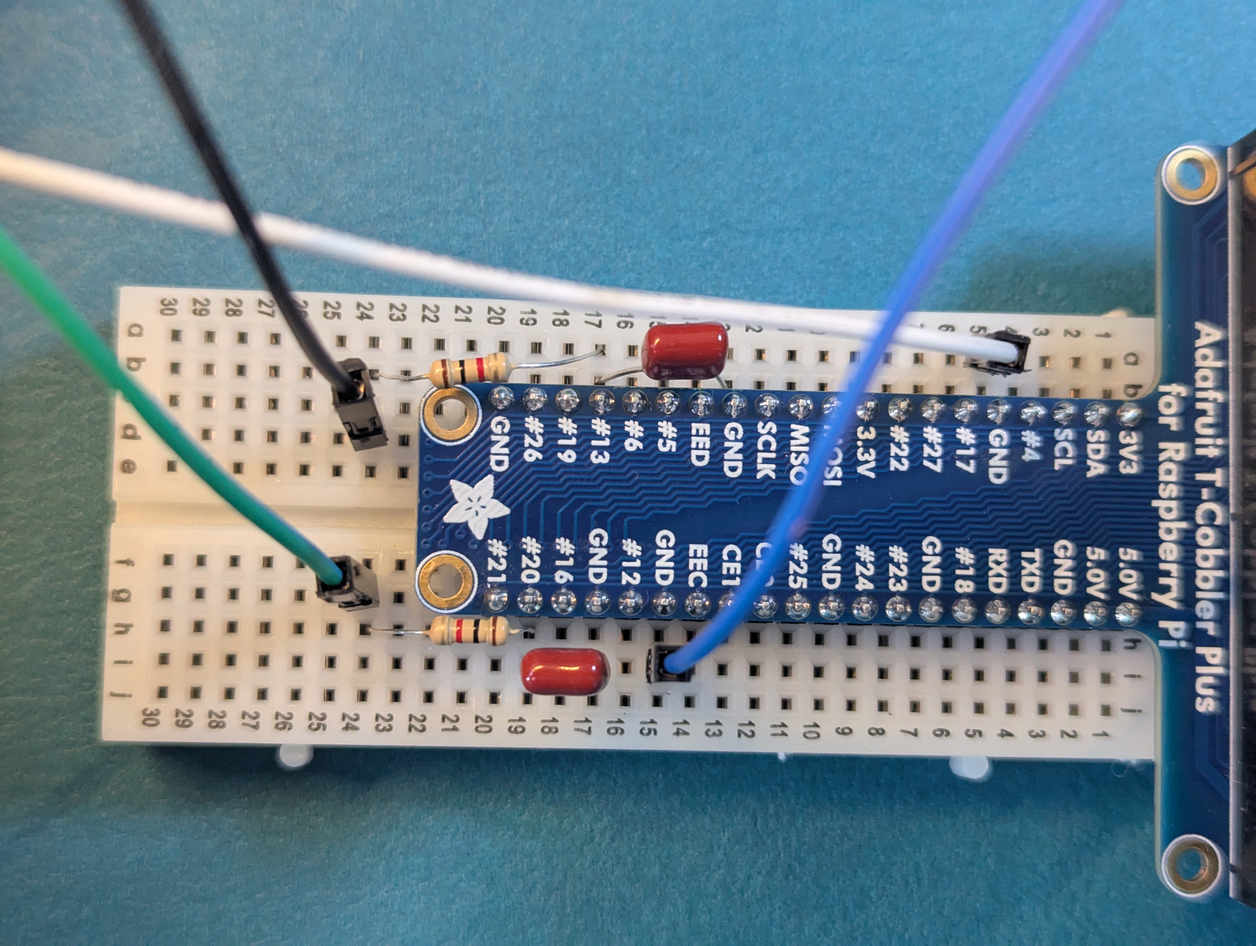
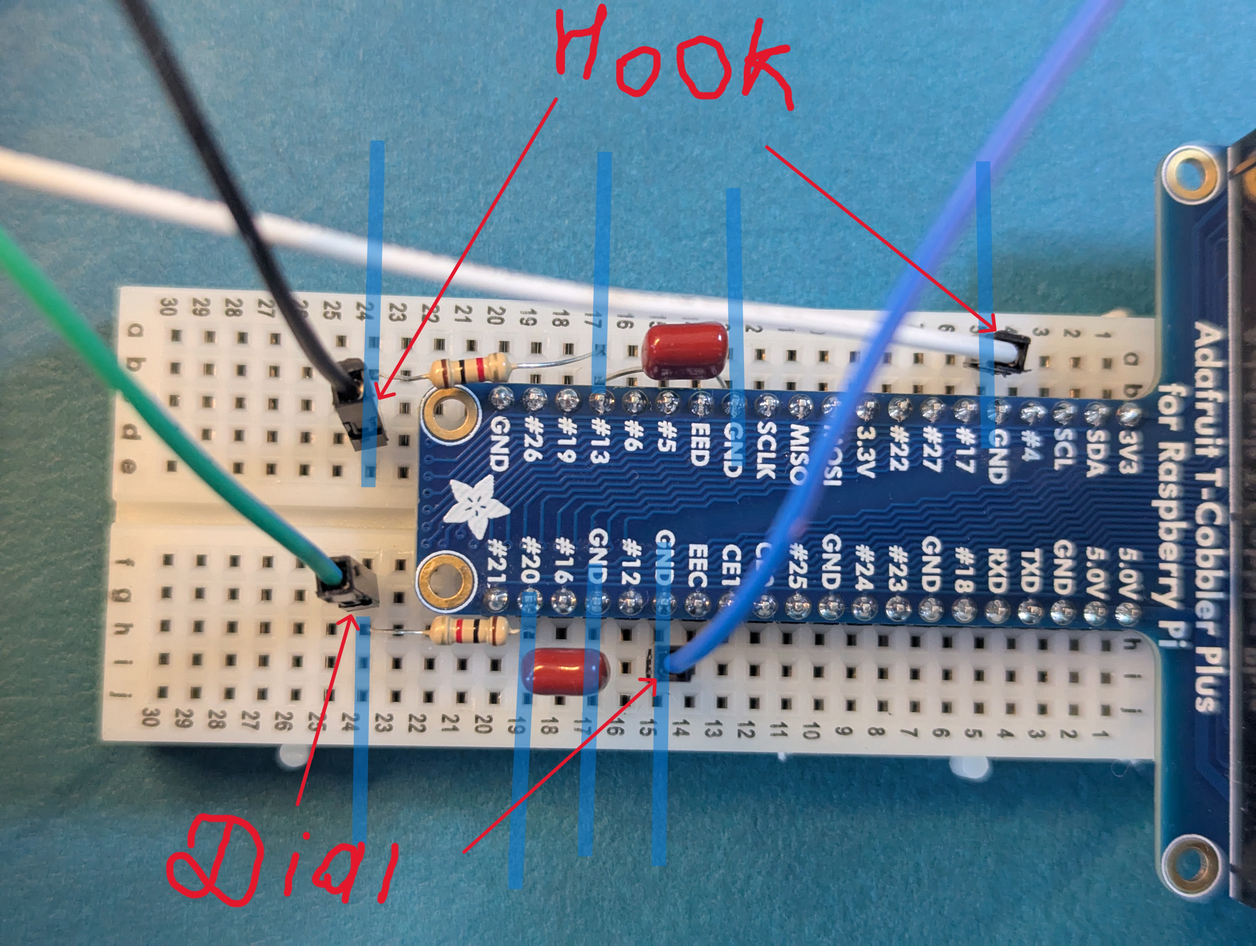
polish the docs and instructions

diff --git a/docs/Hardware.md b/docs/Hardware.md
@@ -61,24 +61,45 @@ Tools (what I actually used):
     - Put the meter in continuity (beep) mode. Touch one probe to each candidate pair. Dial a number and let the dial return slowly. You should hear beep bursts that match the digit you dialed (e.g., “3” → three bursts).
      >If your meter can’t keep up (mine couldn’t), hold the dial at the end of the rotation >and manually let it return slowly with your hand—you’ll hear the bursts. This is where >alligator clips really help—I wish I had them.<br>
 - Mark the pulse pair. The other two (mic-mute) can be isolated and taped out of the way for future experiments (e.g., fake “dialing” click sound).<br>
-<img src="./Dial.jpg" alt="phone without the shell" width="300" style="margin:10px 0 5px 0;"/> <br>
-- now to locate the cradle wires:  locate all wires coming of cradle mechanism, see where they connect to NEt 425B block. With multimeter find 2 that responsible for cradle. Cradle on - no signal, cardle lift long signal. mark them
-- uscrew/cut all the wires from NEt 425B block
-- now yu can remove NEt 425B block - i spend some time doind it, it got messy becouse the is some gue inside this block, nothing toxic or dangerous just too sticky, so i recoment to try and to drill out two pins on the buttom of the fnone that holds the block.I ended up removing the iner part of NEt 425B block, get myself and all around in this yacky vaselin-glue thing, ascking GPT to how to clean it from my hads (use WD-40 and dish soap), after i got this shell of NEt 425B block - i swing it back and force with Pliers, removed it and there was a metall thing underneth that i  ended up removing with the drill... So just try to trill it out from the back of phone - see image
-- You should have clear phone base with wires comming from cradle adn 4 wires from dial
+<img src="./Dial.jpg" alt="phone without the shell" width="200" height="250" style="margin:10px 0 5px 0;"/> <br>
+- **Find the cradle (hook) pair:** Trace the two leads from the hook switch to the NET 425B. With the multimeter, you should see:
+  - On cradle: open circuit (no beep)
+  - Lifted: closed (long beep)<br>
+Mark these two.
+- Now we can remove the NET 425B block to give more room for the Pi and breadboard. Disconnect all the wires from the block. The block itself is full of sticky wax/goop inside. I tried to pull it apart and made a mess (WD-40 + dish soap cleaned my hands). What finally worked was drilling out the two bottom pins and popping it free. If you can, just drill it from the back and avoid the goo entirely.
+- You should now have a clean base with:
+   - 2 wires from the cradle that we need (dont cut other wires - we will cut them after connecting and be sure that we got the right pair)
+   - 2 wires from the dial pulse contacts
+   <img src="./naked.jpg" alt="phone without the shell" width="300" style="margin:10px 0 5px 0;"/> <br>
 
-Step 2 <br>
-<img src="./pi_schema.jpg" alt="Raspberry Pi 4B Starter Kit" width="300" style="margin:10px 0 20px 0;"/>
-- Download Raspberry Pi Imager - https://www.raspberrypi.com/software/
-- Here i the clear [Getting Started](https://www.raspberrypi.com/documentation/computers/getting-started.html) instruction with all the required steps and how to [Install an operation system](https://www.raspberrypi.com/documentation/computers/getting-started.html#installing-the-operating-system) and setup the WiFi connection. Just make sure that you have no other memory cards or any other storage devices connected - to avoid accidentace removal all the information from them. 
-- Istall sD card intom Pi, power it up. And try to connect to it through your terminal -- `ssh <username>@<hostname>` or `ssh <username>@<Pi IP Address>`. If you failed to connect with hostname - try Pi IP Adress to find it:  to login to your wifi aadmin page -informationcan be found at the back of your wifi, and find if the system sees your Pi as connected devices - Host name will be sameas you provided during instalation. and there you can find Ip Address. Here is detailed [Configuration on first boot](https://www.raspberrypi.com/documentation/computers/getting-started.html#configuration-on-first-boot) instructions with troubleshooting. If its not there, First try to unplu and plug bsck you Pi, wait a minute till the green light stop blinking on the Pi and ttry again, if still no go - i recomended to reinstall operation system ance again,  take out sD card - inserd into your laptop and lunch Imager once again, fill up WiFi name and password with caution foloww insrtructions afte rsucessful instalatiuon inser sD card back to Pi - powe rit up, give it few minutes and try terminal again, after succesfull conectuion it will ask you to type the password - and you are connected.
-If still it could not comnnect to WiFi - use Ethernet connection if available, and check your intterne Admin page ance again to see the Pi connected. If still not suceeded, you can connect monitore with provided cable from the kit, connect keyboard and mouse and astr Pi and you will see operation system refer to [Configuration on first boot](https://www.raspberrypi.com/documentation/computers/getting-started.html#configuration-on-first-boot) instructions.
+
+### Step 2 — Prepare the Raspberry Pi
+<img src="./pi_schema.jpg" alt="Raspberry Pi 4B Starter Kit" width="300" style="margin:10px 0 20px 0;"/> <br>
+- Download Raspberry Pi Imager - https://www.raspberrypi.com/software/ <br>
+- Here i the clear [Getting Started](https://www.raspberrypi.com/documentation/computers/getting-started.html) instruction with all the required steps and how to [Install an operation system](https://www.raspberrypi.com/documentation/computers/getting-started.html#installing-the-operating-system) and setup the WiFi connection.
+- In Imager, set:
+  - Hostname, username/password
+  - Enable SSH
+  - Wi-Fi SSID/password (if you’re not using Ethernet)<br>
+>**Tip:** Unplug other USB drives or SD cards to avoid imaging the wrong device.
+### First boot + SSH
+1. Insert the SD, power up the Pi, give it a minute until the green LED calms down.
+2. Try to SSH in:
+```bash
+ssh <username>@<hostname>
+# or
+ssh <username>@<PI_IP_ADDRESS>
+```
+
+
+ If you failed to connect with hostname - try Pi IP Adress to find it:  login to your wifi admin page -information can be found at the back of your wifi router, and find if the system sees your Pi as connected devices - Host name will be same as you provided during installation. and there you can find Ip Address. Here is detailed [Configuration on first boot](https://www.raspberrypi.com/documentation/computers/getting-started.html#configuration-on-first-boot) instructions with troubleshooting. If its not there, First try to unplug and plug back you Pi, wait a minute till the green light stop blinking on the Pi and try again, if still no go - i recommended to reinstall operation system once again,  take out sD card - insert into your laptop and lunch Imager once again, fill up WiFi name and password with caution follow instruction after successful installation insert sD card back to Pi - power it up, give it few minutes and try terminal again, after successful connection it will ask you to type the password - and you are connected.
+If still it could not connect to WiFi - use Ethernet connection if available, and check your internet Admin page once again to see the Pi connected. If still not succeeded, you can connect monitor with provided cable from the kit, connect keyboard and mouse and astr Pi and you will see operation system refer to [Configuration on first boot](https://www.raspberrypi.com/documentation/computers/getting-started.html#configuration-on-first-boot) instructions.
 Cangrats! Your Pi is up and running!
 **Avoid holding the board or touching GPIO pins** when the board is powered. Shorting the pins can easily damage the board, rendering it unusable.
 
-Step 3 wiring
+### Step 3 wiring
 - connect T Cobbler to the Pi
-![]()
+
 
 ## For the Hook
 Do this (Pi power OFF):
@@ -99,7 +120,7 @@ Black ── 1kΩ ──> (row of #13)
                  (GND row)
 White  ───────────────────────────────────────────────> (GND row)
 ```
-
+<img src="./wiring.jpg" alt="Raspberry Pi 4B Starter Kit" width="300" style="margin:10px 0 20px 0;"/> <br>
 ## For the Dial
 - Blue wire into the  GND row on the Cobbler
 - Choose an empty inner row (not the long +/– rails).

diff --git a/README.md b/README.md
@@ -3,7 +3,9 @@
 <small>Build for **OpenAI Open Model Hackathon**</small><br>
 
 _An old rotary desk phone brought back to life with a Raspberry Pi and modern speech AI.
-Lift the handset, dial a number, and famous person answers your call. You ask a question; he thinks, then replies out loud in a character._
+Lift the handset, dial a number, and famous person answers your call. You ask a question; he thinks, then replies out loud in a character._ <br>
+___
+**[Hardware Instruction](./docs/Hardware.md)**
 
 >### ⚠ Content disclaimer
 > **Historical names are used in an educational, fictional context.**<br>
